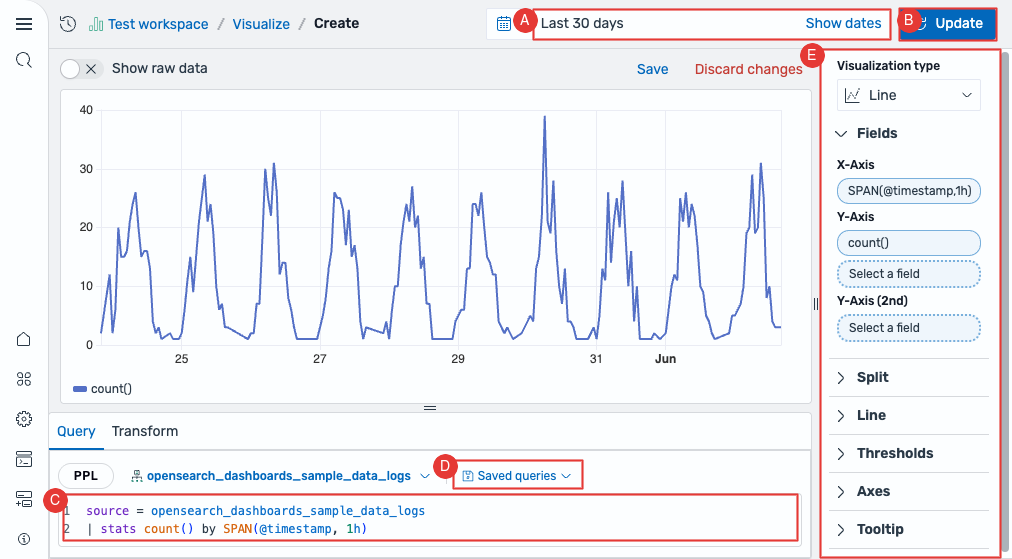
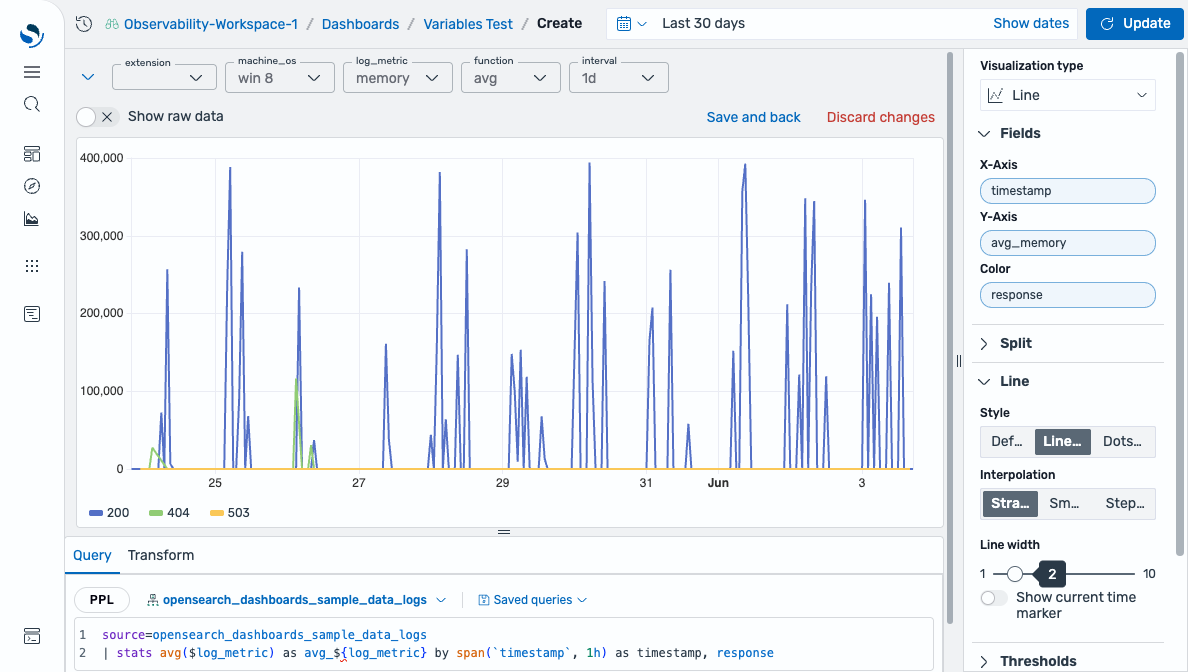
Doc review

diff --git a/_dashboards/visualize/visualization-editor/index.md b/_dashboards/visualize/visualization-editor/index.md
@@ -1,17 +1,17 @@
 ---
 layout: default
-title: Visualization editor
+title: Building visualizations using queries
 parent: Building data visualizations
-nav_order: 75
+nav_order: 20
 has_children: true
 has_toc: false
 redirect_from:
   - /dashboards/visualize/visualization-editor/
 ---
 
-# Visualization editor
+# Building visualizations using queries
 
-The visualization editor enables you to write Piped Processing Language (PPL) queries and map query results directly to chart fields. Unlike the **Visualize** application that uses aggregation-based configurations, the visualization editor automatically maps query result fields to chart axes and supports progressive refinement through dimensions, multiple metrics, and dual axes.
+The visualization editor enables you to write Piped Processing Language (PPL) or Prometheus Query Language (PromQL) queries and map query results directly to chart fields. Unlike the **Visualize** application that uses aggregation-based configurations, the visualization editor automatically maps query result fields to chart axes and supports progressive refinement through dimensions, multiple metrics, and dual axes.
 
 ## Prerequisites
 
@@ -41,16 +41,22 @@ The visualization editor requires a workspace. To create a workspace, follow the
 
 For more information, see [Workspaces]({{site.url}}{{site.baseurl}}/dashboards/workspace/).
 
-### Step 3: Create an index pattern
+### Step 3: Configure a data source
 
-The visualization editor requires a time-based index pattern associated with your workspace. To create an index pattern, follow these steps. For more information, see [Index patterns]({{site.url}}{{site.baseurl}}/dashboards/management/index-patterns/).
+The visualization editor requires a dataset associated with your workspace:
 
-1. Inside your workspace, go to **Index patterns** (under **Management**).
-2. Select **Create index pattern**.
-3. Enter the index name (for example, `opensearch_dashboards_sample_data_logs`).
-4. Select **Next step**.
-5. Select a time field (for example, `@timestamp`).
-6. Select **Create index pattern**.
+- For PPL, configure an index pattern:
+
+    1. Inside your workspace, go to **Index patterns** (under **Management**).
+    2. Select **Create index pattern**.
+    3. Enter the index name (for example, `opensearch_dashboards_sample_data_logs`).
+    4. Select **Next step**.
+    5. Select a time field (for example, `@timestamp`).
+    6. Select **Create index pattern**.
+
+For more information, see [Index patterns]({{site.url}}{{site.baseurl}}/dashboards/management/index-patterns/).
+
+- For PromQL (Prometheus data source), configure a Prometheus data source connection for your workspace. For more information, see [Connecting Prometheus to OpenSearch]({{site.url}}{{site.baseurl}}/dashboards/management/connect-prometheus/).
 
 ### Step 4 (Optional): Install sample data 
 
@@ -93,6 +99,12 @@ To create a visualization, follow these steps:
 1. Select **Update** or press **Enter** to run the query.
 1. The editor automatically selects a chart type and maps fields to axes based on your query results. To change the chart type, use the **Visualization type** dropdown.
 1. To customize the field mapping, use the **Fields** panel.
+
+## Using dashboard variables
+
+You can use dashboard variables to create dynamic, interactive visualizations. Variables let you switch between filter values, metrics, time intervals, and aggregation functions without editing the query. Reference variables in your PPL or PromQL queries using `$variableName` or `${variableName}` syntax.
+
+For more information, see [Dashboard variables]({{site.url}}{{site.baseurl}}/dashboards/dashboard/dashboard-variables/).
 
 ## Saving a visualization
 
@@ -155,4 +167,11 @@ The X-axis and Y-axis share the same configuration options. Each axis can be ind
 | **Show labels** | When enabled, shows category labels along the axis. |
 | **Alignment** | Controls the rotation of axis labels. **Horizontal** (0°), **Vertical** (90°), or **Angled** (45°). |
 | **Truncate after** | Sets the maximum character length for axis labels before truncation. |
+
+## Related documentation
+
+- [Dashboard variables]({{site.url}}{{site.baseurl}}/dashboards/dashboard/dashboard-variables/)
+- [Creating dashboards]({{site.url}}{{site.baseurl}}/dashboards/dashboard/)
+- [Index patterns]({{site.url}}{{site.baseurl}}/dashboards/management/index-patterns/)
+- [Connecting Prometheus to OpenSearch]({{site.url}}{{site.baseurl}}/dashboards/management/connect-prometheus/)
 

diff --git a/_dashboards/visualize/index.md b/_dashboards/visualize/index.md
@@ -1,37 +1,42 @@
 ---
 layout: default
 title: Building data visualizations
-nav_order: 40
+nav_order: 30
 has_children: true
-has_toc: false
 ---
 
 # Building data visualizations
 
-OpenSearch Dashboards provides two tools for creating data visualizations: the **Visualize** application and the **Visualization editor**. Both produce charts that you can save and add to dashboards.
+OpenSearch Dashboards provides two approaches for creating data visualizations: building visualizations visually and building visualizations using queries. Both produce charts that you can save and add to dashboards.
 
-## Choosing a visualization tool
+## Choosing a visualization approach
 
-The following table compares the two visualization tools. *Italicized* chart types are unique to that tool.
+When you select **Create new** in a dashboard (or **Create new visualization** in the **Visualize** app), a dialog presents the available visualization types. The first option, **Add visualization**, opens the query-based visualization editor. All other options (such as **Area**, **Line**, or **Pie**) open the visual point-and-click tool.
 
-| | Visualize application | Visualization editor |
+The following table compares the two approaches. *Italicized* chart types are unique to that approach.
+
+| | Building visualizations visually | Building visualizations using queries |
 | :--- | :--- | :--- |
-| **Access** | **Visualize** in the left navigation menu | **Explore** > **Visualization editor** |
-| **Data selection** | Point-and-click aggregation builder | Piped Processing Language (PPL) queries |
+| **Entry point** | In the **Create new** dialog, select a chart type (Area, Line, Pie, and others) | In the **Create new** dialog, select **Add visualization** |
+| **Configuration** | Configure metrics and buckets using point-and-click panels. Use DQL in the search bar to filter data. | Write PPL or PromQL queries to define the data. The editor automatically suggests a chart type. |
 | **Chart types** | - Area<br>- Bar<br>- *Coordinate map*<br>- *Data table*<br>- Gauge<br>- Heatmap<br>- Line<br>- *Metric*<br>- Pie<br>- *Region map*<br>- *Tag cloud*<br>- *Timeline*<br>- *TSVB*<br>- *Vega*<br>- *VisBuilder* | - Area<br>- Bar<br>- *Bar gauge*<br>- Gauge<br>- Heatmap<br>- Line<br>- Pie<br>- *Scatter*<br>- *State timeline* |
 | **Prerequisites** | None (available by default) | Requires `workspace.enabled: true` and `explore.enabled: true` in `opensearch_dashboards.yml` |
 | **Best for** | Aggregation-based analysis without writing queries | Query-driven exploration where you need precise control over data shaping |
-| **Documentation** | [Visualize application]({{site.url}}{{site.baseurl}}/dashboards/visualize/visualize-app/) | [Visualization editor]({{site.url}}{{site.baseurl}}/dashboards/visualize/visualization-editor/) |
+| **Documentation** | [Building visualizations visually]({{site.url}}{{site.baseurl}}/dashboards/visualize/visualize-app/) | [Building visualizations using queries]({{site.url}}{{site.baseurl}}/dashboards/visualize/visualization-editor/) |
 
-## Visualize application
+## Building visualizations visually
 
-The Visualize application uses a point-and-click interface to build visualizations from aggregations. Select a chart type, choose an index pattern, configure metrics and buckets, and render the result.
+The **Visualize** application uses a point-and-click interface to build visualizations from aggregations. Select a chart type, choose an index pattern, configure metrics and buckets, and render the result, as shown in the following image. Use the [DQL]({{site.url}}{{site.baseurl}}/dashboards/dql/) search bar to filter the underlying data.
 
-For more information, see [Visualize application]({{site.url}}{{site.baseurl}}/dashboards/visualize/visualize-app/).
+![Visualize application showing a line chart with point-and-click configuration panels]({{site.url}}{{site.baseurl}}/images/dashboards/visualize-app-example.png)
 
-## Visualization editor
+For more information, see [Building visualizations visually]({{site.url}}{{site.baseurl}}/dashboards/visualize/visualize-app/).
 
-The visualization editor lets you write PPL queries and map query results directly to chart fields. The editor automatically suggests a chart type based on the shape of your query results and maps fields to axes.
+## Building visualizations using queries
 
-For more information, see [Visualization editor]({{site.url}}{{site.baseurl}}/dashboards/visualize/visualization-editor/).
+The visualization editor lets you write PPL or PromQL queries and map query results directly to chart fields. The editor automatically suggests a chart type based on the shape of your query results and maps fields to axes, as shown in the following image. This approach supports [dashboard variables]({{site.url}}{{site.baseurl}}/dashboards/dashboard/dashboard-variables/) for interactive filtering.
+
+![Visualization editor showing a multi-line chart built from a PPL query with dashboard variables]({{site.url}}{{site.baseurl}}/images/dashboards/visualization-editor-example.png)
+
+For more information, see [Building visualizations using queries]({{site.url}}{{site.baseurl}}/dashboards/visualize/visualization-editor/).
 

diff --git a/_dashboards/visualize/visualize-app/index.md b/_dashboards/visualize/visualize-app/index.md
@@ -1,6 +1,6 @@
 ---
 layout: default
-title: Visualize application
+title: Building visualizations visually
 parent: Building data visualizations
 nav_order: 10
 has_children: true
@@ -10,13 +10,13 @@ redirect_from:
   - /dashboards/visualize/viz-index/
 ---
 
-# Visualize application
+# Building visualizations visually
 
-The Visualize application uses a point-and-click interface to create data visualizations from aggregations. To open the Visualize application, select **Visualize** from the left navigation menu.
+The **Visualize** application uses a point-and-click interface to create data visualizations from aggregations. To open the **Visualize** application, select **Visualize** from the left navigation menu.
 
 ## Visualization types
 
-The Visualize application supports the following visualization types.
+The **Visualize** application supports the following visualization types.
 
 ### Area charts
 

diff --git a/_dashboards/im-dashboards/index.md b/_dashboards/im-dashboards/index.md
@@ -1,6 +1,6 @@
 ---
 layout: default
-title: Index Management
+title: Index management
 nav_order: 80
 has_children: true
 redirect_from:
@@ -8,7 +8,7 @@ redirect_from:
   - /dashboards/im-dashboards/
 ---
 
-# Index Management
+# Index management
 Introduced 2.5
 {: .label .label-purple }
 
@@ -18,7 +18,7 @@ An example of the interface is shown in the following image.
 
 ![Index Management user interface]({{site.url}}{{site.baseurl}}/images/dashboards/index-management-UI.png)
 
-## Get started with Index Management using Dashboards
+## Get started with Index management using Dashboards
 
 **Step 1: Open Index Management** 
 

diff --git a/_dashboards/management/management-index.md b/_dashboards/management/management-index.md
@@ -1,15 +1,15 @@
 ---
 layout: default
-title: Dashboards Management
+title: Dashboards management
 nav_order: 100
 has_children: true
 ---
 
-# Dashboards Management
+# Dashboards management
 Introduced 2.10
 {: .label .label-purple }
 
-**Dashboards Management** is the central hub for managing and customizing OpenSearch data directly within OpenSearch Dashboards. 
+**Dashboards management** is the central hub for managing and customizing OpenSearch data directly within OpenSearch Dashboards. 
 
 OpenSearch and OpenSearch Dashboards permissions govern access to individual features. If you do not have the appropriate access permissions, consult your administrator.
 {: .warning}

diff --git a/_dashboards/dashboard/index.md b/_dashboards/dashboard/index.md
@@ -1,8 +1,8 @@
 ---
 layout: default
 title: Creating dashboards
-nav_order: 30
-has_children: false
+nav_order: 40
+has_children: true
 redirect_from:
   - /dashboards/dashboard/
 ---

diff --git a/_dashboards/management/S3-data-source.md b/_dashboards/management/S3-data-source.md
@@ -1,8 +1,8 @@
 ---
 layout: default
 title: Connecting Amazon S3 to OpenSearch
-parent: Data sources
-nav_order: 15
+parent: Connecting data sources
+nav_order: 30
 has_children: true
 ---
 

diff --git a/_dashboards/management/accelerate-external-data.md b/_dashboards/management/accelerate-external-data.md
@@ -1,8 +1,8 @@
 ---
 layout: default
 title: Optimizing query performance using OpenSearch indexing
-parent: Data sources
-nav_order: 17
+parent: Connecting data sources
+nav_order: 40
 ---
 
 # Optimizing query performance using OpenSearch indexing

diff --git a/_dashboards/management/acl.md b/_dashboards/management/acl.md
@@ -1,8 +1,8 @@
 ---
 layout: default
 title: Access control lists for saved objects
-parent: Dashboards Management
-nav_order: 50
+parent: Dashboards management
+nav_order: 20
 ---
 
 # Access control lists for saved objects

diff --git a/_dashboards/management/advanced-settings.md b/_dashboards/management/advanced-settings.md
@@ -1,8 +1,8 @@
 ---
 layout: default
 title: Advanced settings
-parent: Dashboards Management
-nav_order: 40
+parent: Dashboards management
+nav_order: 10
 ---
 
 # Advanced settings

diff --git a/_dashboards/management/connect-prometheus.md b/_dashboards/management/connect-prometheus.md
@@ -1,8 +1,8 @@
 ---
 layout: default
 title: Connecting Prometheus to OpenSearch
-parent: Data sources
-nav_order: 20
+parent: Connecting data sources
+nav_order: 60
 ---
 
 # Connecting Prometheus to OpenSearch

diff --git a/_dashboards/management/data-sources.md b/_dashboards/management/data-sources.md
@@ -1,7 +1,7 @@
 ---
 layout: default
-title: Data sources
-nav_order: 110
+title: Connecting data sources
+nav_order: 60
 has_children: true
 ---
 